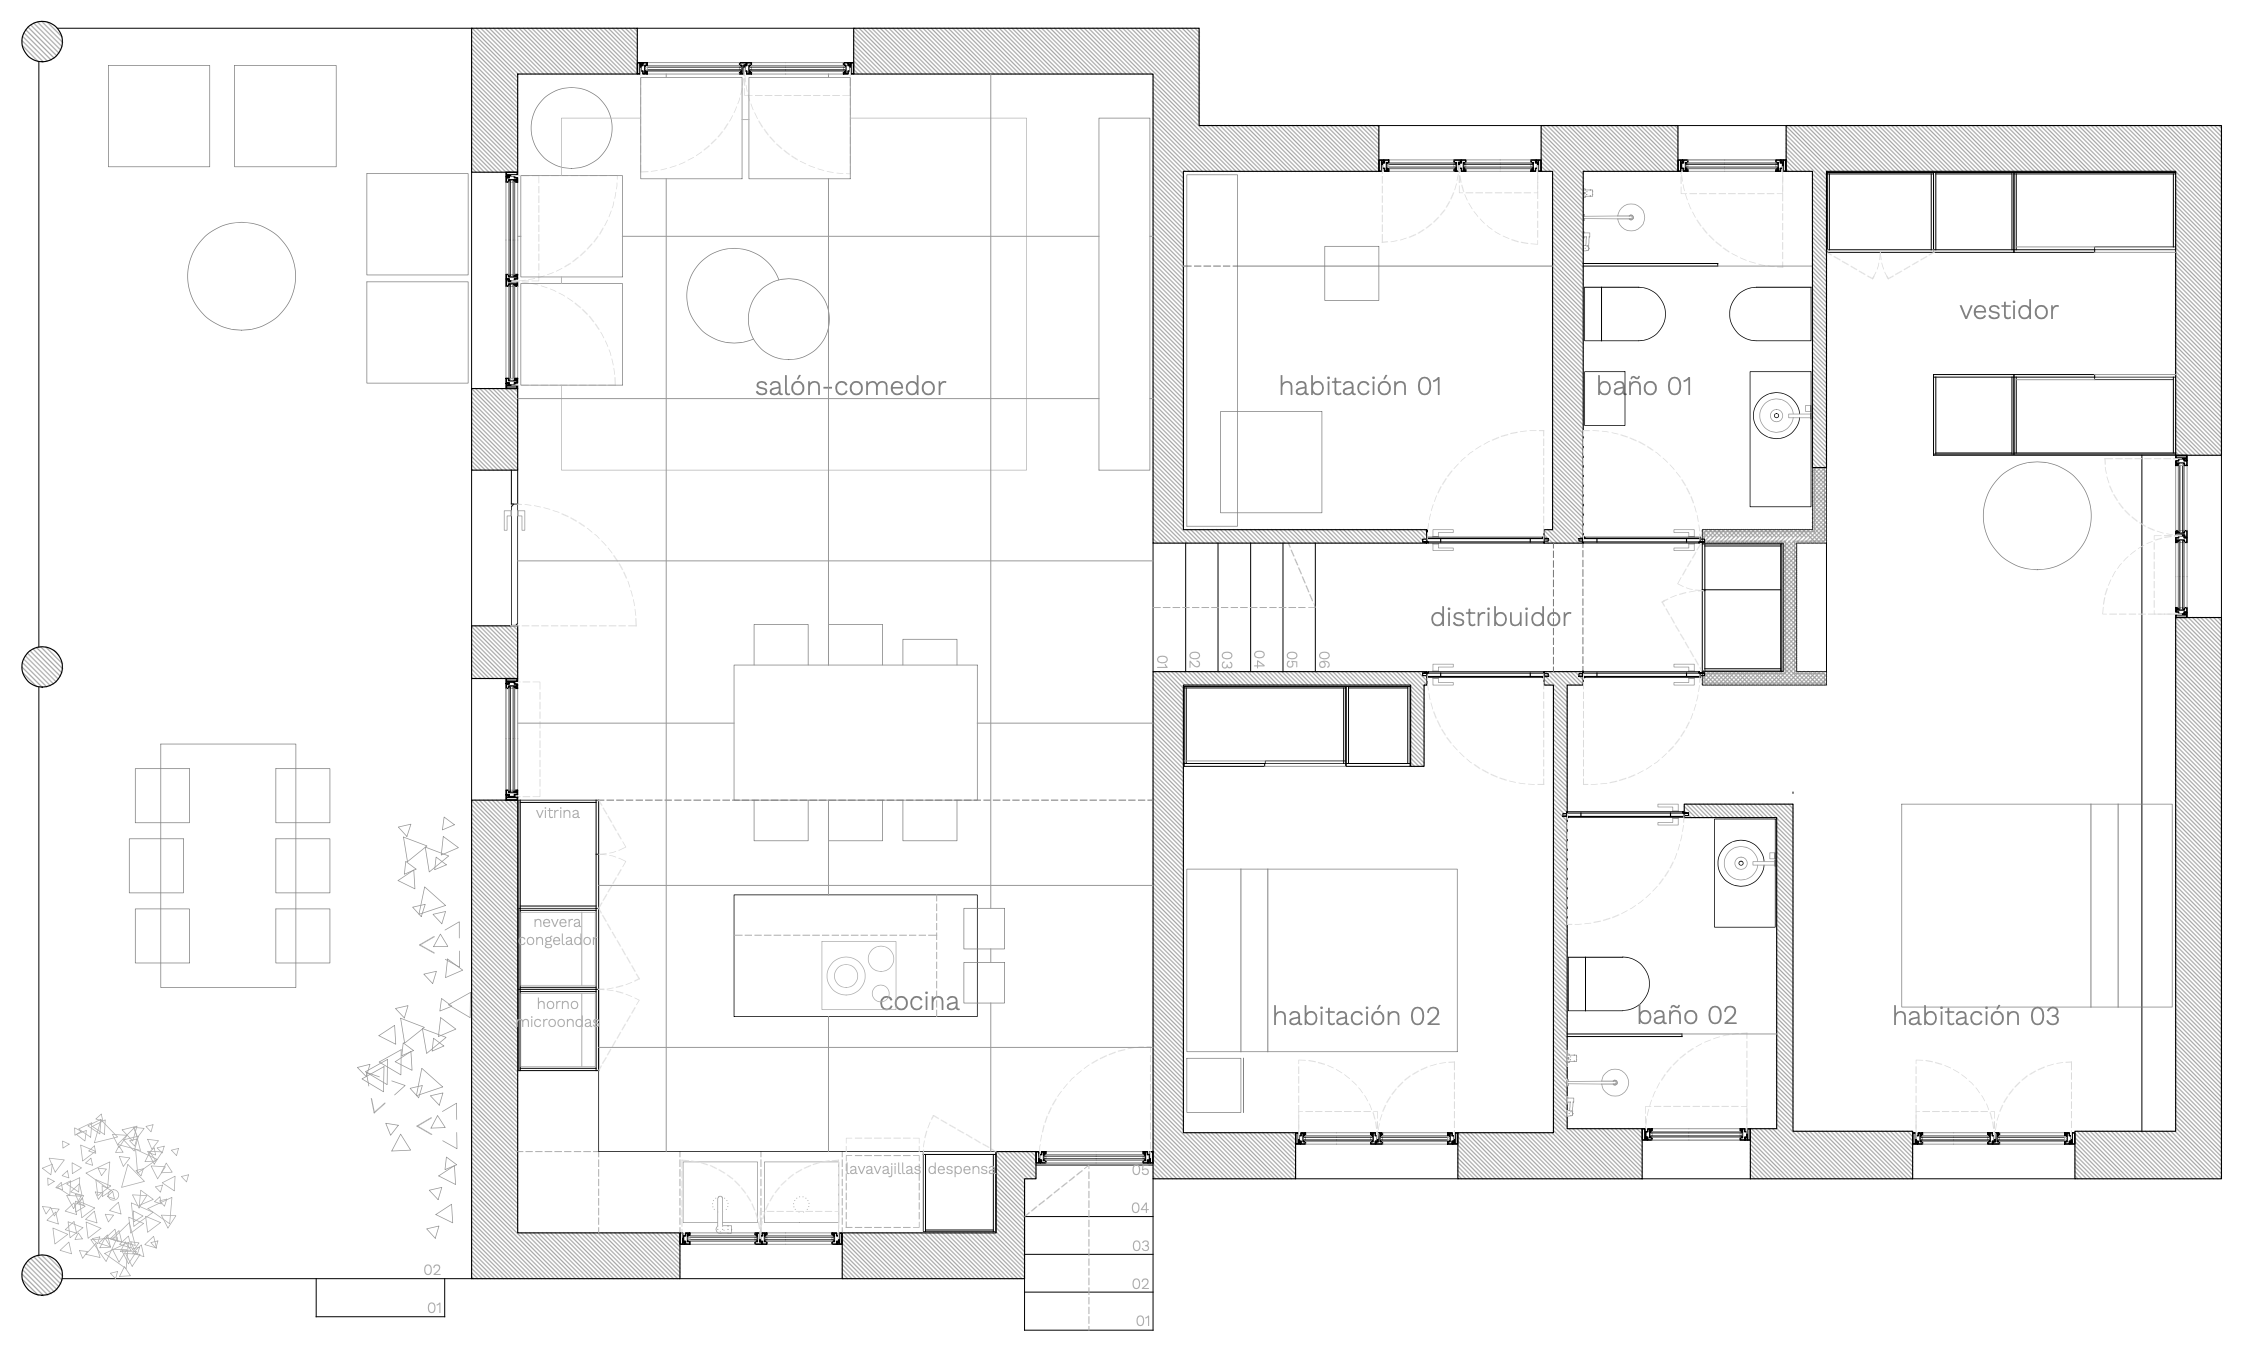
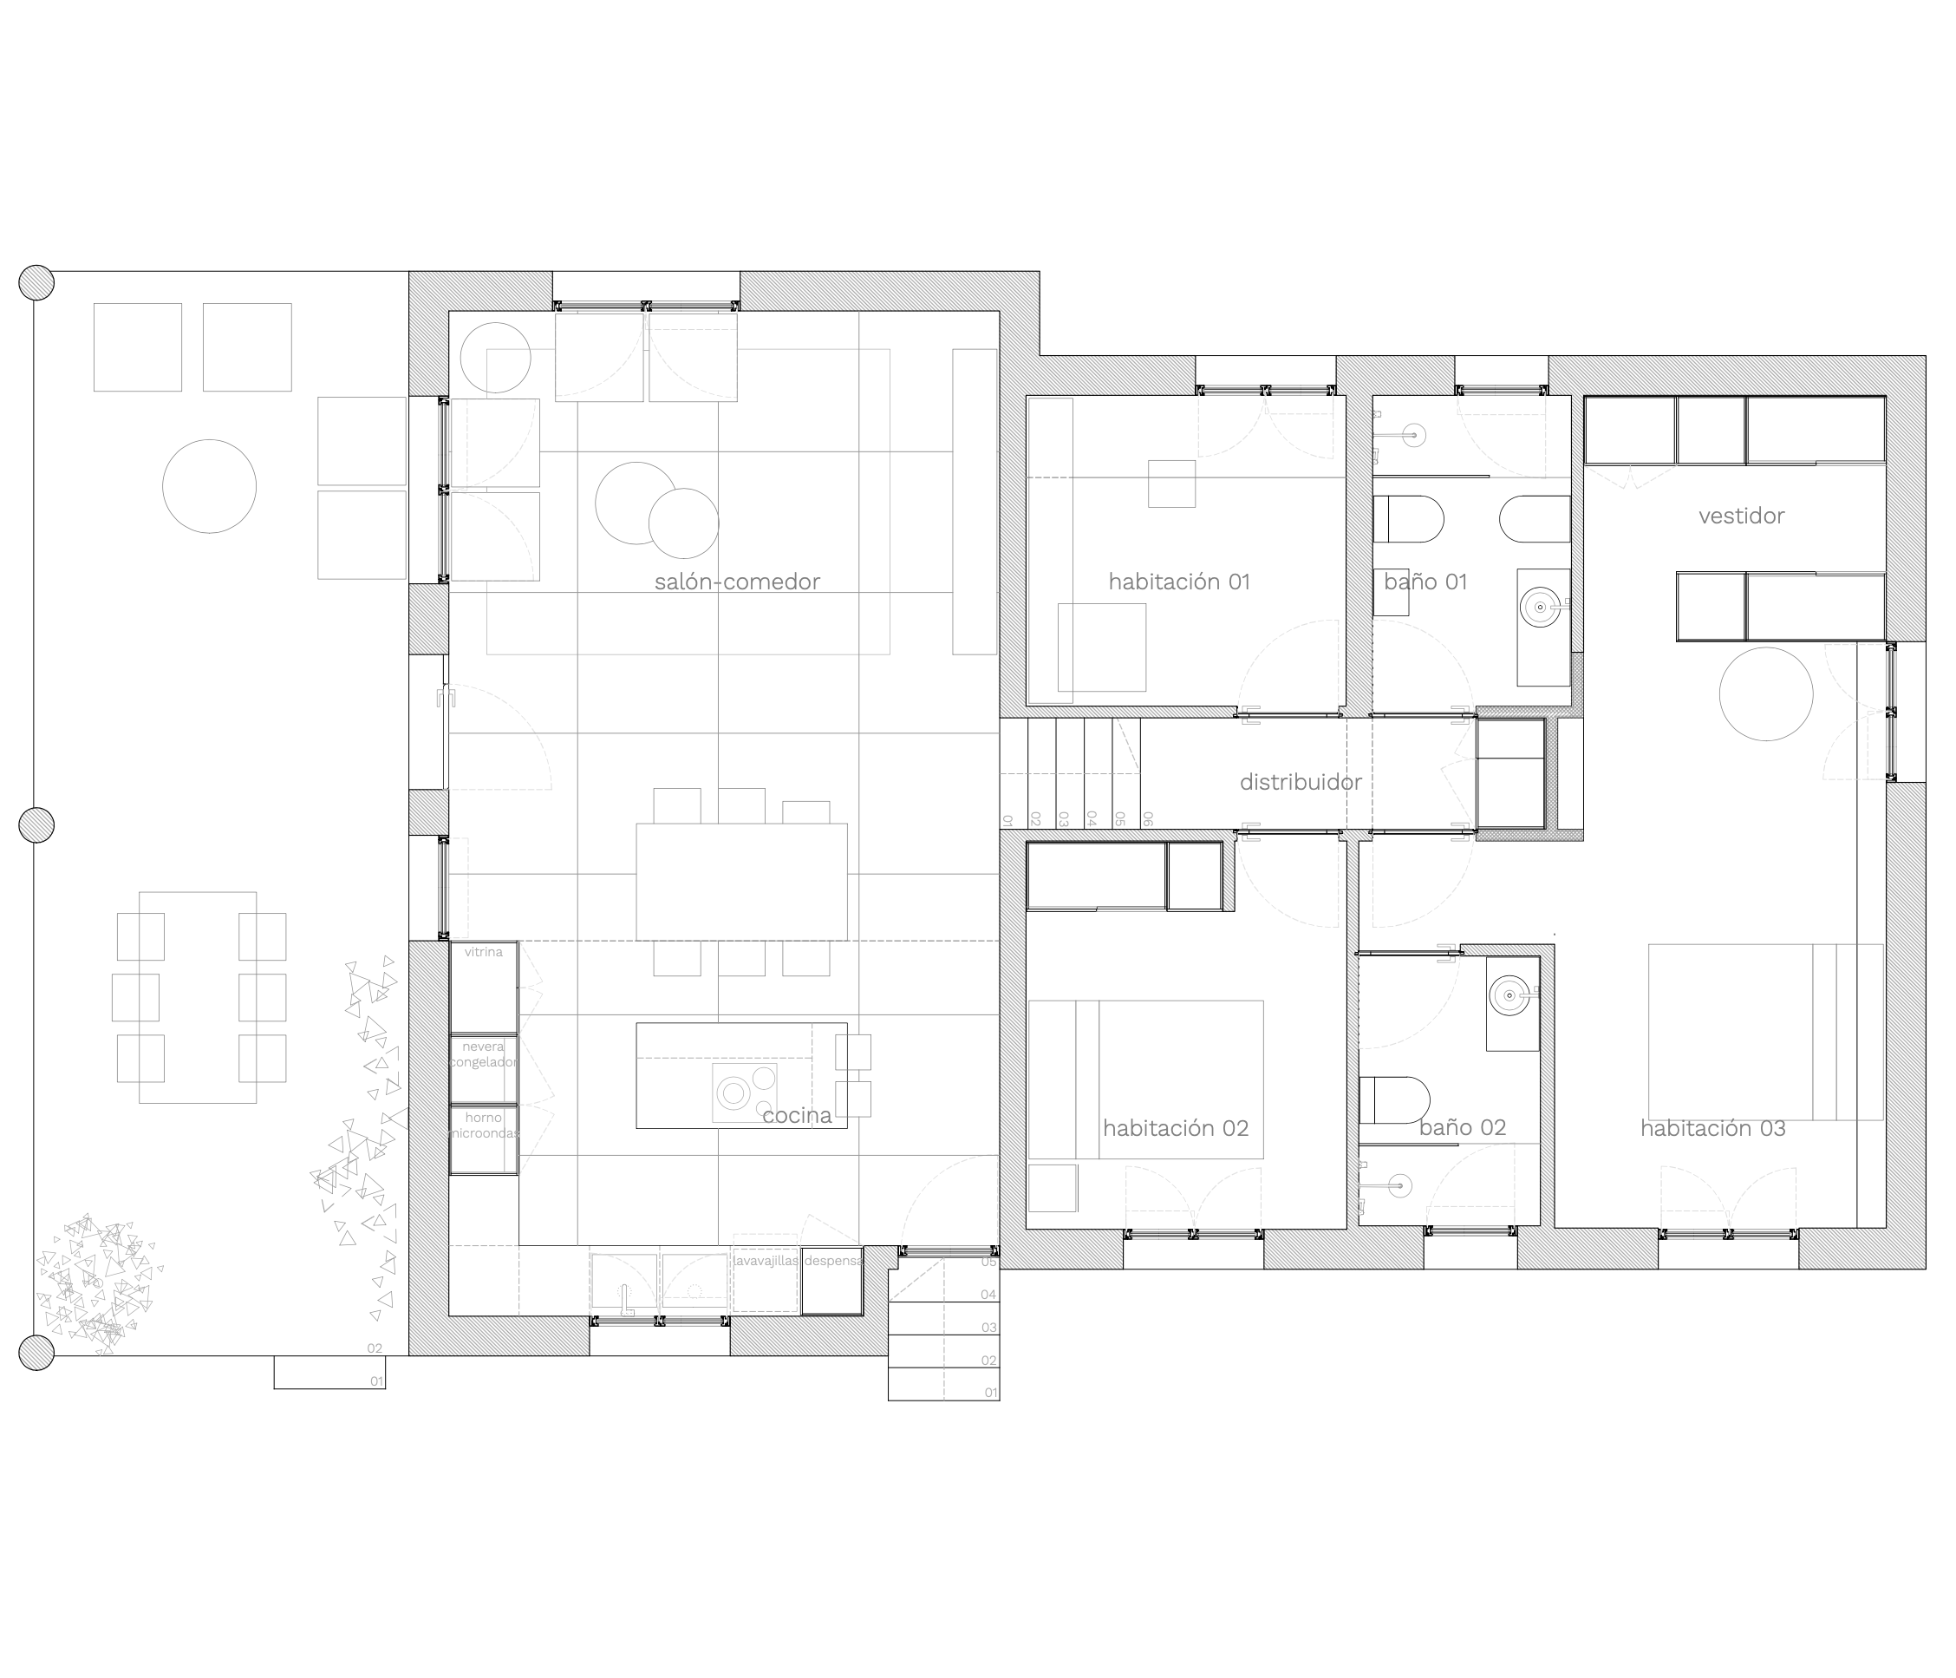
ribaroja

diff --git a/home.html b/home.html
@@ -48,7 +48,7 @@
       <!-- TARGETA 1 -->
       <div class="col-12 col-sm-6 col-lg-4">
         <a href="Proyecto1/proyecto1.html">
-          <img src="MATERIAL/Almenar11.png" class="img-fluid project-img" alt="Proyecto Almenar">
+          <img src="MATERIAL/Ribaroja11.png" class="img-fluid project-img" alt="Proyecto Ribaroja">
         </a>
       </div>
 
